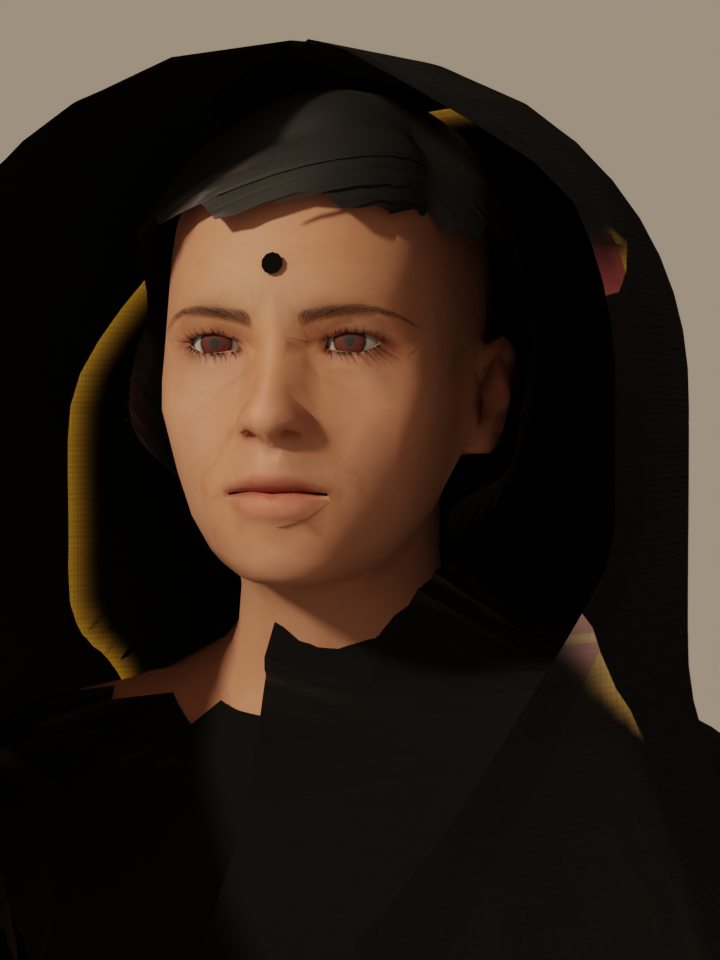
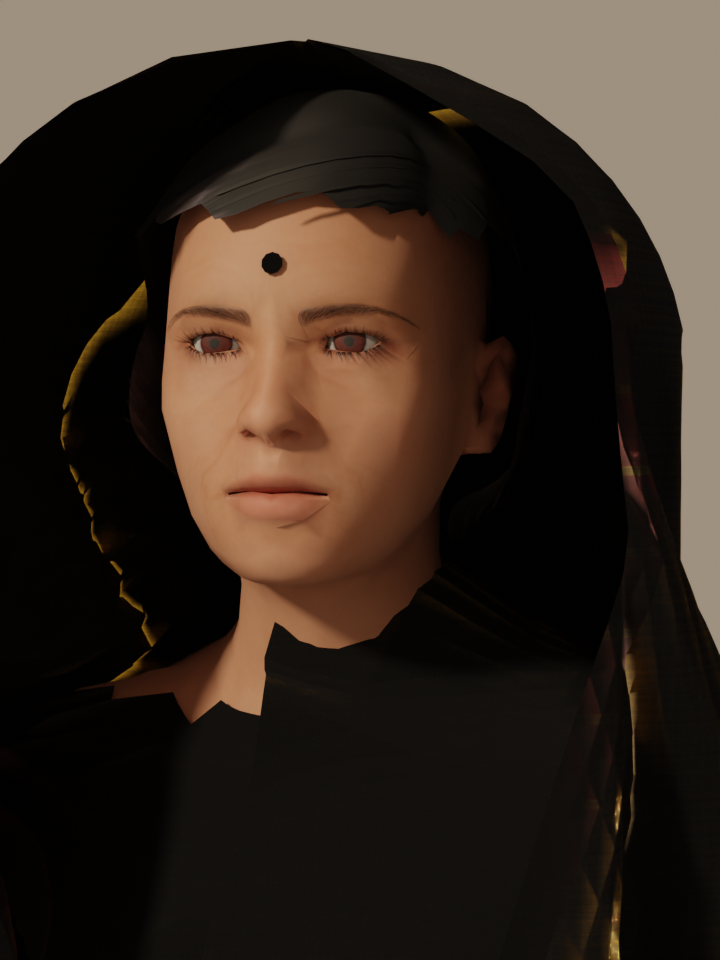
characters: fix empty generated fabric textures (alpha buffer, update before pack) + pixel check

diff --git a/characters/blender/build_character.py b/characters/blender/build_character.py
@@ -172,12 +172,16 @@ def weave_images(name, rgb, size=512, threads=28, stripe=None):
     nrm = n * 0.5 + 0.5
     imgs = []
     for tag, arr in (("col", col), ("nrm", nrm)):
-        img = bpy.data.images.new(f"{SPEC_ID}_{name}_{tag}", size, size, alpha=False)
-        rgba = np.concatenate([arr, np.ones((size, size, 1), np.float32)], -1)[::-1]
-        img.pixels.foreach_set(rgba.astype(np.float32).ravel())
+        img = bpy.data.images.new(f"{SPEC_ID}_{name}_{tag}", size, size, alpha=True)
         if tag == "nrm":
             img.colorspace_settings.name = "Non-Color"
+        rgba = np.ascontiguousarray(np.concatenate([arr, np.ones((size, size, 1), np.float32)], -1)[::-1], dtype=np.float32)
+        img.pixels.foreach_set(rgba.ravel())
+        img.update()
         img.pack()
+        chk = np.empty(size * size * 4, dtype=np.float32)
+        img.pixels.foreach_get(chk)
+        log(f"texture {img.name}: mean {chk.reshape(-1, 4)[:, :3].mean(axis=0).round(3)} packed={bool(img.packed_file)}")
         imgs.append(img)
     return imgs
 
